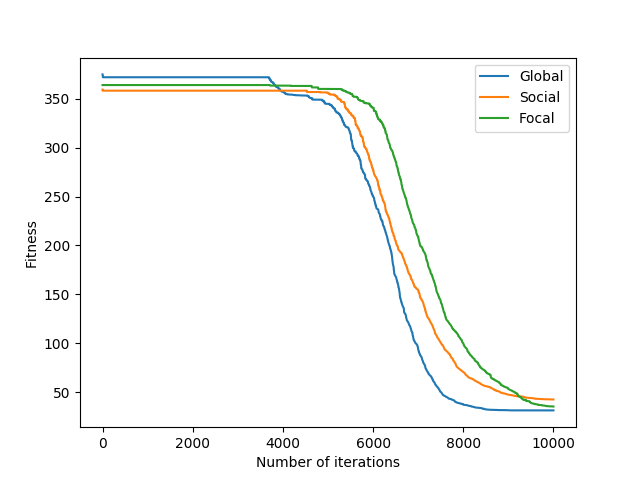
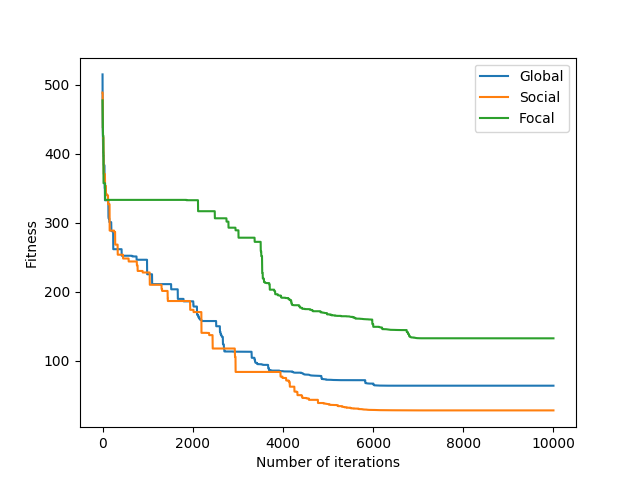
Add region scaling

diff --git a/pso/particle.py b/pso/particle.py
@@ -3,15 +3,16 @@ import numpy as np
 
 
 class Particle(object):
-    def __init__(self, fn):
+    def __init__(self, fn, max_speed=0.5):
         self.__fn = fn
         self.__id = str(uuid.uuid4())
 
-        mean = (fn.minf + fn.maxf) / 2.0
-        std_dev = min(np.abs(fn.minf), np.abs(fn.maxf)) / 2.0
+        fn_range = fn.max - fn.min
+        mean, std_dev = fn.region_scaling()
 
-        self.__speed = np.random.normal(0.0, 1.0, fn.dim)
-        self.__position = np.random.normal(mean, std_dev, fn.dim)
+        self.__max_speed = max_speed * fn_range
+        self.__speed = np.random.random(fn.dimensions) - 0.5
+        self.__position = np.random.normal(mean, std_dev, fn.dimensions)
         self.__restrict_to_fn_boundaries()
 
         self.__fitness = fn(self.__position)
@@ -48,10 +49,11 @@ class Particle(object):
         social_component = b * c2 * r2 * (self.social_reference - self.__position)
 
         self.__speed = inertia + cognitive_component + social_component
+        self.__restrict_speed()
         self.__position = self.__position + self.__speed
 
     def evaluate(self):
-        if not self.__is_out_of_bounds():
+        if not self.is_out_of_bounds():
             fitness = self.__fn(self.__position)
 
             if fitness <= self.__fitness:
@@ -64,15 +66,19 @@ class Particle(object):
 
         return squared_euclidean(self.position, other.position)
 
-    def __is_out_of_bounds(self):
-        lower_bounds = self.__position < self.__fn.minf
-        upper_bounds = self.__position > self.__fn.maxf
+    def is_out_of_bounds(self):
+        lower_bounds = self.__position <= self.__fn.min
+        upper_bounds = self.__position >= self.__fn.max
 
         return lower_bounds.any() or upper_bounds.any()
 
+    def __restrict_speed(self):
+        self.__speed[self.__speed > self.__max_speed] = self.__max_speed
+        self.__speed[self.__speed < -self.__max_speed] = -self.__max_speed
+
     def __restrict_to_fn_boundaries(self):
-        self.__position[self.__position < self.__fn.minf] = self.__fn.minf
-        self.__position[self.__position > self.__fn.maxf] = self.__fn.maxf
+        self.__position[self.__position < self.__fn.min] = self.__fn.min
+        self.__position[self.__position > self.__fn.max] = self.__fn.max
 
     def __eq__(self, other):
         return self.id == other.id

diff --git a/benchmark/functions.py b/benchmark/functions.py
@@ -3,37 +3,39 @@ from deap.benchmarks.tools import translate, rotate
 
 
 class ObjectiveFunction(object):
-    def __init__(self, name, dim, minf, maxf, rot=None, trans=None):
+    def __init__(self, name, dimensions, min, max):
         self.name = name
-        self.dim = dim
-        self.minf = minf
-        self.maxf = maxf
-        self.rot = rot
-        self.trans = trans
+        self.min = min
+        self.max = max
+        self.dimensions = dimensions
 
     def evaluate(self, x):
         pass
 
 
 class SphereFunction(ObjectiveFunction):
-    def __init__(self, dim, rot=None, trans=None):
-        super(SphereFunction, self).__init__('Sphere', dim, -100.0, 100.0, rot, trans)
-        self.func = sphere
-        if self.rot:
-            rotation = rotate(self.rot)
-            self.func = rotation(self.func)
+    def __init__(self, dim):
+        super(SphereFunction, self).__init__('Sphere', dim, -100.0, 100.0)
 
-        if self.trans:
-            translation = translate(self.trans)
-            self.func = translation(self.func)
+    @staticmethod
+    def region_scaling():
+        mean = 50
+        std_dev = 5
+        return mean, std_dev
 
     def __call__(self, x):
-        return self.func(x)[0]
+        return sphere(x)[0]
 
 
 class RosenbrockFunction(ObjectiveFunction):
     def __init__(self, dim):
         super(RosenbrockFunction, self).__init__('Rosenbrock', dim, -30.0, 30.0)
+
+    @staticmethod
+    def region_scaling():
+        mean = 20
+        std_dev = 2
+        return mean, std_dev
 
     def __call__(self, x):
         return rosenbrock(x)[0]
@@ -42,6 +44,12 @@ class RosenbrockFunction(ObjectiveFunction):
 class RastriginFunction(ObjectiveFunction):
     def __init__(self, dim):
         super(RastriginFunction, self).__init__('Rastrigin', dim, -5.12, 5.12)
+
+    @staticmethod
+    def region_scaling():
+        mean = -3
+        std_dev = 1
+        return mean, std_dev
 
     def __call__(self, x):
         return rastrigin(x)[0]

diff --git a/pso/algorithm.py b/pso/algorithm.py
@@ -47,16 +47,18 @@ class PSO(object):
         def speed_mapper(particle):
             return particle.speed
 
-        num_samples = fn.maxf - fn.minf
-        domain = np.linspace(fn.minf, fn.maxf, num_samples)
+        num_samples = fn.max - fn.min
+        domain = np.linspace(fn.min, fn.max, num_samples)
         x, y = np.meshgrid(domain.copy(), domain.copy())
         z = fn(np.array([x, y]))
 
         p = np.array(list(map(position_mapper, swarm)))
         s = np.array(list(map(speed_mapper, swarm)))
 
+        colors = np.zeros(p[:,0].shape)
+        colors[0] = 1
         plt.pcolormesh(x, y, z, cmap='RdBu')
-        plt.quiver(p[:,0], p[:,1], s[:,0], s[:,1])
+        plt.quiver(p[:,0], p[:,1], s[:,0], s[:,1], colors)
         plt.show()
         plt.clf()
         plt.close()
